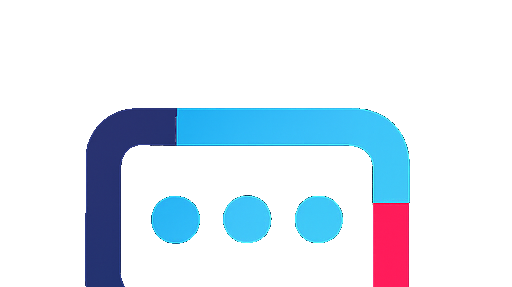
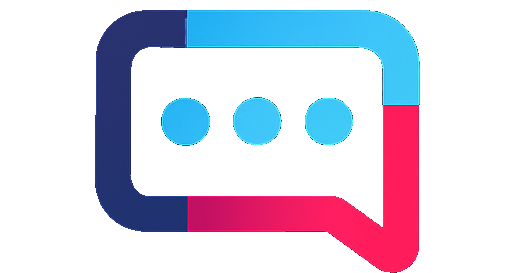
auto-commit for 7bbbd4a2-aa94-4246-b3d3-754c08cc5f54

Changed region(s): [[0.1562, 0.0293, 0.8125, 1.0]]

diff --git a/frontend/src/pages/PortalSelector.jsx b/frontend/src/pages/PortalSelector.jsx
@@ -240,8 +240,8 @@ const PortalSelector = () => {
                 <div className="flex items-center gap-3 sm:gap-4 mb-4 sm:mb-6">
                   <div className="icon-container">
                     {portal.lumiIcon ? (
-                      <div className="w-14 h-14 sm:w-16 sm:h-16 rounded-xl bg-[#0B0F1A] flex items-center justify-center shadow-lg ring-2 ring-violet-500/30 p-1.5">
-                        <img src="/lumi-bubble-official.png" alt="LUMI" className="w-full h-full object-contain" />
+                      <div className="w-14 h-14 sm:w-16 sm:h-16 rounded-xl bg-[#0B0F1A] flex items-center justify-center shadow-lg ring-2 ring-violet-500/30 p-2">
+                        <img src="/lumi-icon-only.png" alt="LUMI" className="w-full h-full object-contain" />
                       </div>
                     ) : portal.logo ? (
                       <img 

diff --git a/frontend/src/components/KarauMeet/LumiMiniMessenger.jsx b/frontend/src/components/KarauMeet/LumiMiniMessenger.jsx
@@ -144,7 +144,7 @@ const LumiMiniMessenger = ({ onUnreadChange }) => {
         <div className="p-3 border-b border-karau-border">
           <div className="flex items-center gap-2">
             <div className="w-5 h-5 flex-shrink-0">
-              <img src="/lumi-bubble-official.png" alt="LUMI" className="w-full h-full object-contain" />
+              <img src="/lumi-icon-only.png" alt="LUMI" className="w-full h-full object-contain" />
             </div>
             <span className="text-sm font-bold tracking-wide"
               style={{ background: 'linear-gradient(135deg, #00CEC9, #6C5CE7, #E84393)', WebkitBackgroundClip: 'text', WebkitTextFillColor: 'transparent' }}>
